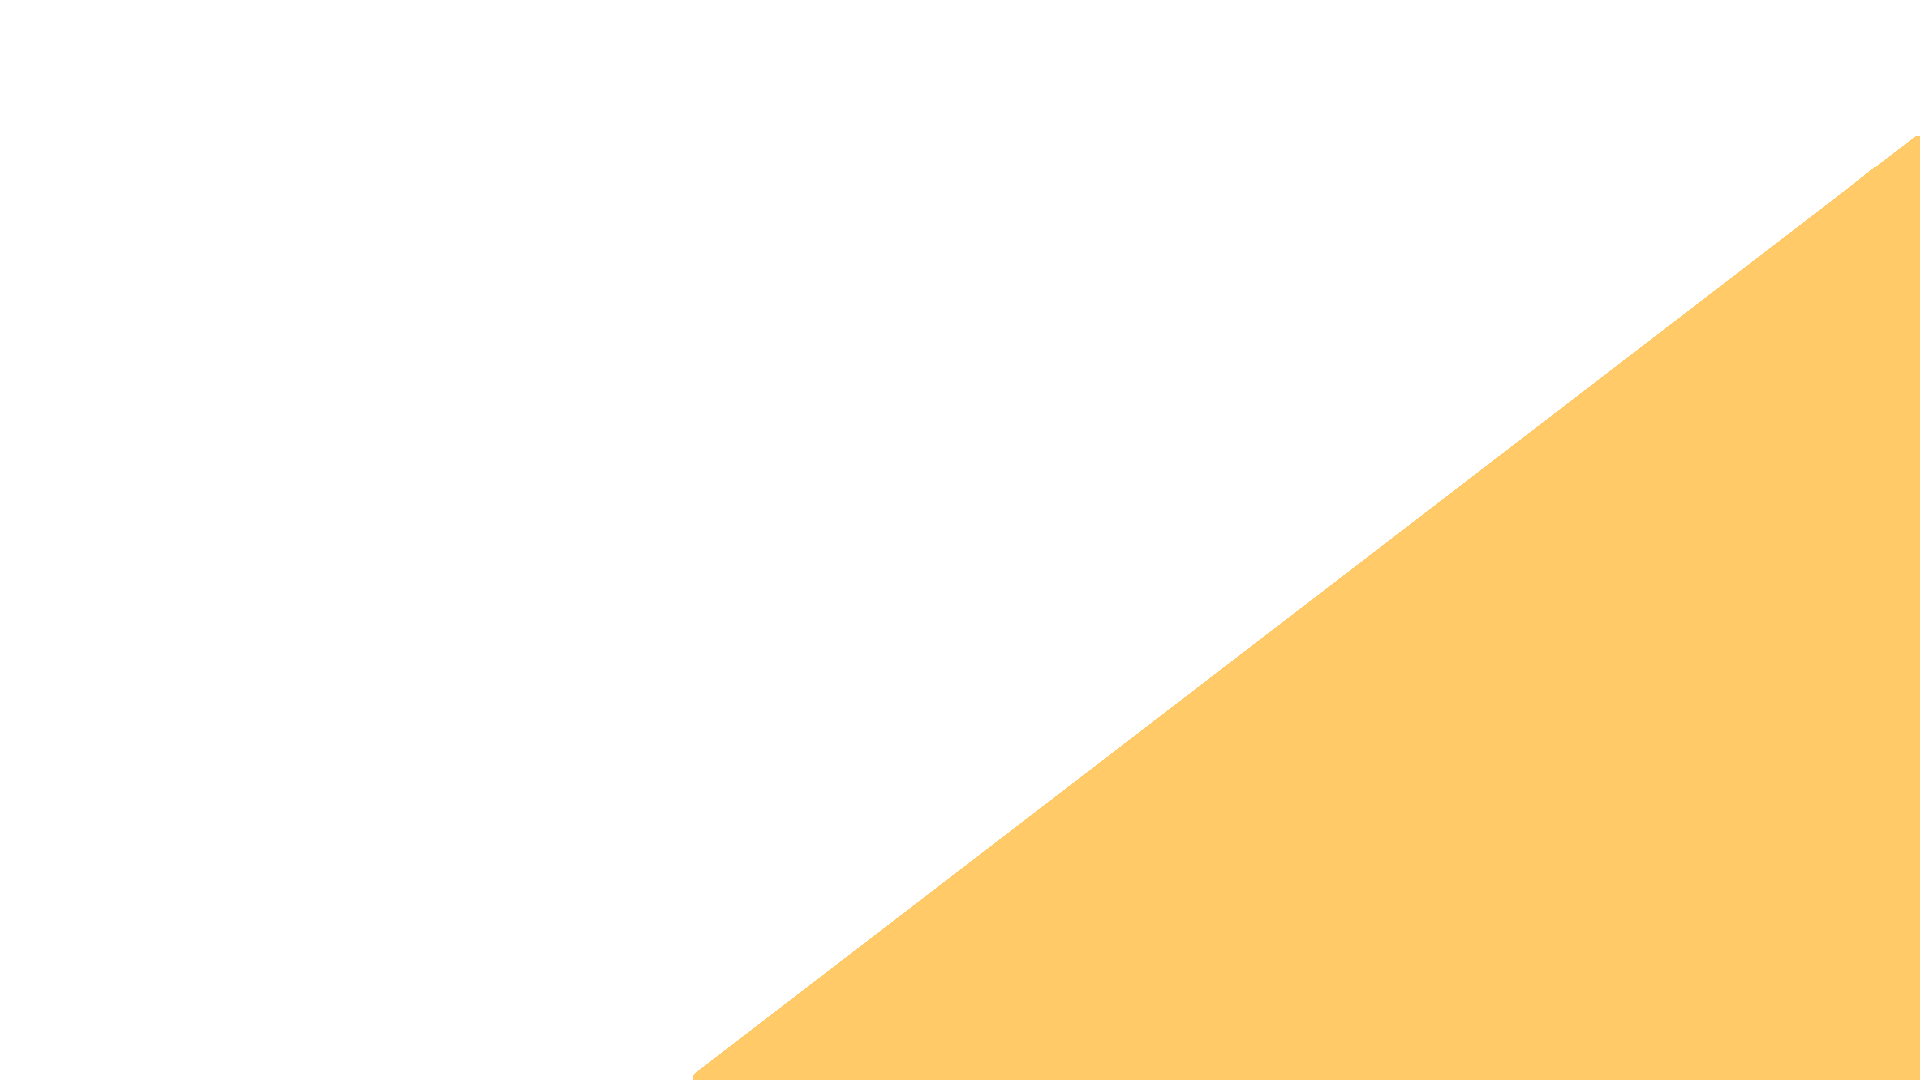
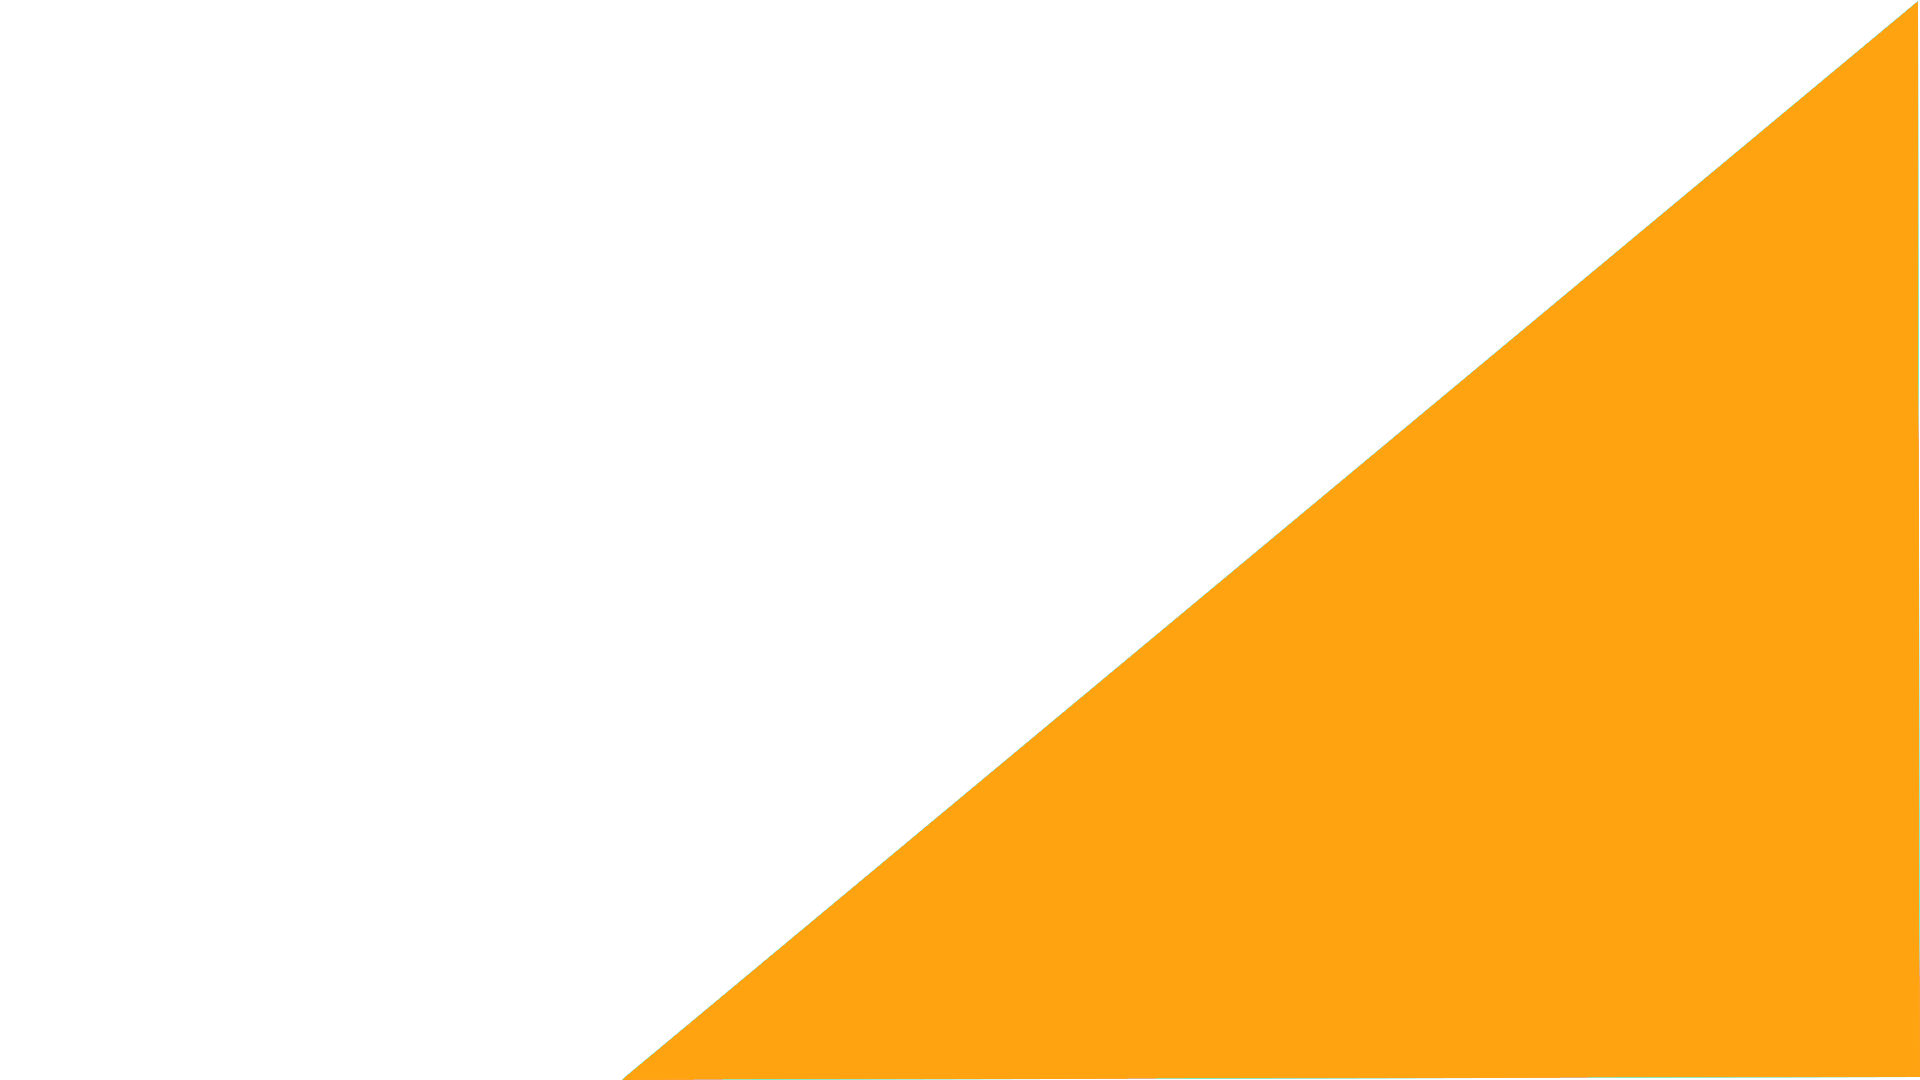
color changes

diff --git a/src/components/Home.tsx b/src/components/Home.tsx
@@ -3,16 +3,23 @@ import { Grid, useMediaQuery, useTheme, createStyles, Theme, makeStyles, Typogra
 import pan from "../images/pan.png";
 import bckg from "../images/fondo.png";
 
+const colors = {
+	primary: "#3C4F76",
+	secondary: "#7da1ff",
+	tertiary: "#FFA310",
+	background: "#fdfdfd"
+}
+
 const Home = () => {
 	const theme = useTheme();
 	const mobile = useMediaQuery(theme.breakpoints.down('sm'));
 	const useStyles = makeStyles((theme: Theme) => createStyles({
 		root: {
-			background: `linear-gradient(346deg, #ffffff, #fff4ba)`,
+			background: colors.background,
 			backgroundSize: "400% 400%",
 			height: "100%",
-			color: "#ffdb57",
-			textShadow: `2px 2px #000`,
+			color: colors.tertiary,
+			textShadow: `2px 2px ${colors.secondary}`,
 			animation: "$backgroundColorAnimation 3s infinite",
 			overflowY: "hidden"
 		},
@@ -65,15 +72,15 @@ const Home = () => {
 			fontStyle: "italic",
 			fontSize: mobile? "10vw" : "",
 			width: "max-content",
-			color: "black",
-			textShadow: `2px 2px #ffdb57`,
+			color: colors.primary,
+			textShadow: `2px 2px ${colors.secondary}`,
 			transitionProperty: "textDecoration",
 			transitionDuration: "400ms",
 			margin: "0 auto",
 			textDecoration: "none",
 			display: "block",
 			"&:hover": {
-				borderBottom: "solid 1vh #ffdb57",
+				borderBottom: `solid 1vh ${colors.secondary}`,
 				animation: "$underlineAnimation 400ms",
 				boxShadow: `0px 8px 7px -9px`
 			}
@@ -121,7 +128,7 @@ const Home = () => {
 					style={{ width: mobile ? "90vw" : "50vw" }}
 					alt="sourdough bread Vendopan"
 				/>
-				<div style={{ width: "100%", position: "absolute", bottom: 40, }}>
+				<div style={{ width: "100%", position: "absolute", bottom: 30, }}>
 					<Typography
 						variant="h2"
 						align="center"
@@ -135,7 +142,7 @@ const Home = () => {
 				</div>
 			</Grid>
 			<Grid item container xs={12} style={{position: "absolute", bottom: 10}} justify="center">
-				<Typography target="_blank" href="https://www.gregorioospina.com" component="a" style={{textDecoration: "none", textShadow: "none"}} variant="overline">
+				<Typography target="_blank" href="https://www.gregorioospina.com" component="a" style={{textDecoration: "none", textShadow: "none", color: colors.tertiary}} variant="overline">
 					By Grego
 				</Typography>
 			</Grid>
